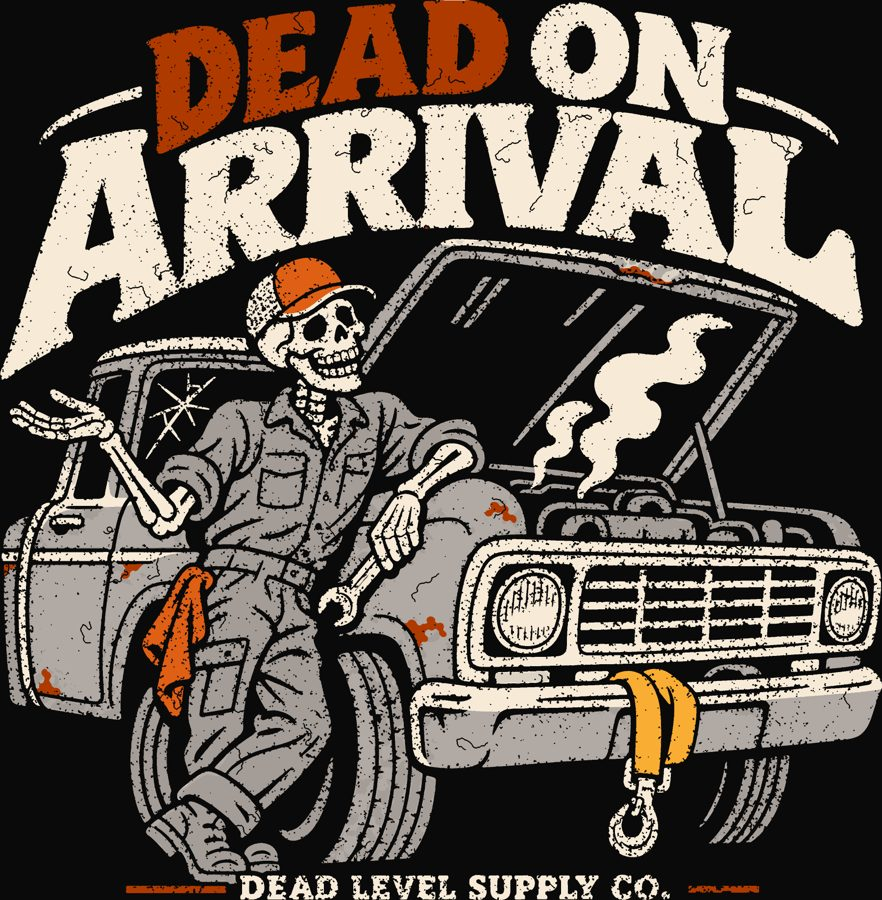
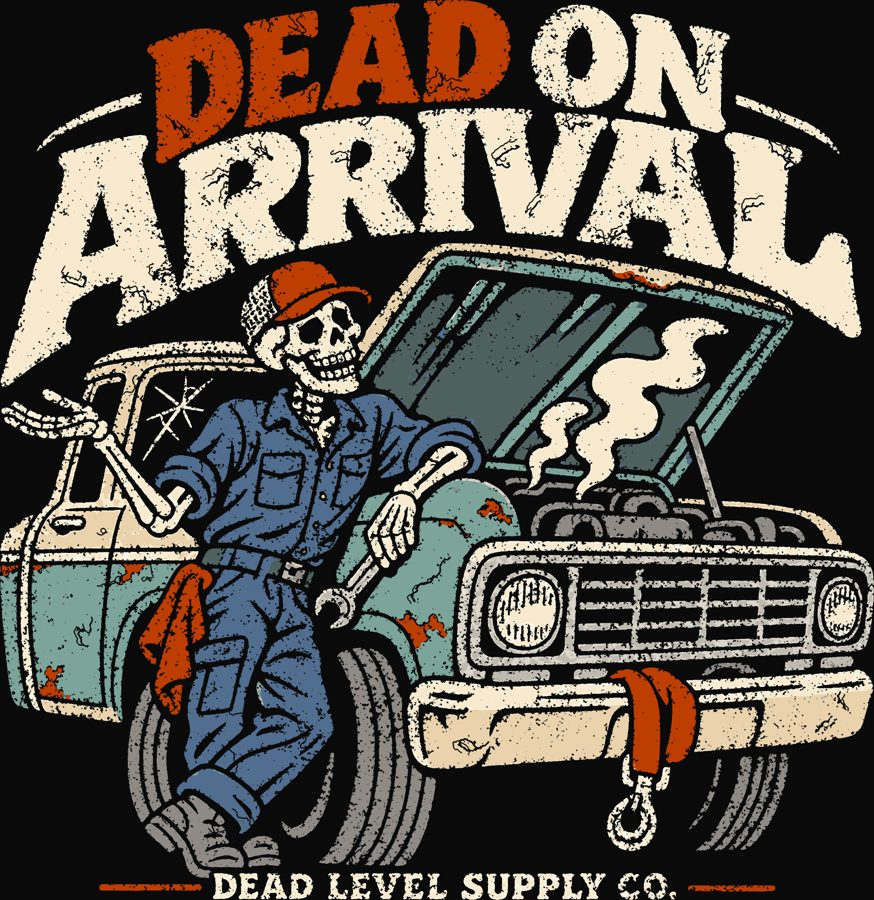
Drop 01: Dead on Arrival color redo (teal truck, blue coveralls)

diff --git a/index.html b/index.html
@@ -151,7 +151,7 @@ const shirts = [
     who: "Welders, fitters, fabricators. The blue arc is the eye-catcher in a feed.", size: "12 × 13.3″" },
   { id: "dead-on-arrival", title: "Dead on Arrival", trade: "mechanic", tradeLabel: "Mechanic", lane: "dark",
     joke: "The truck got towed in dead. The mechanic shrugs at it, already a skeleton himself.",
-    who: "Auto and diesel mechanics, shop owners.", size: "12 × 12.2″" },
+    who: "Auto and diesel mechanics, shop owners.", size: "12 × 12.4″" },
   { id: "laid-to-rest", title: "Laid to Rest", trade: "landscape", tradeLabel: "Hardscape", lane: "dark",
     joke: "Pavers get laid. He finished the patio, then lay down on it for good.",
     who: "Hardscapers and paver crews, the open lane nobody's selling to.", size: "12 × 11.6″" },
